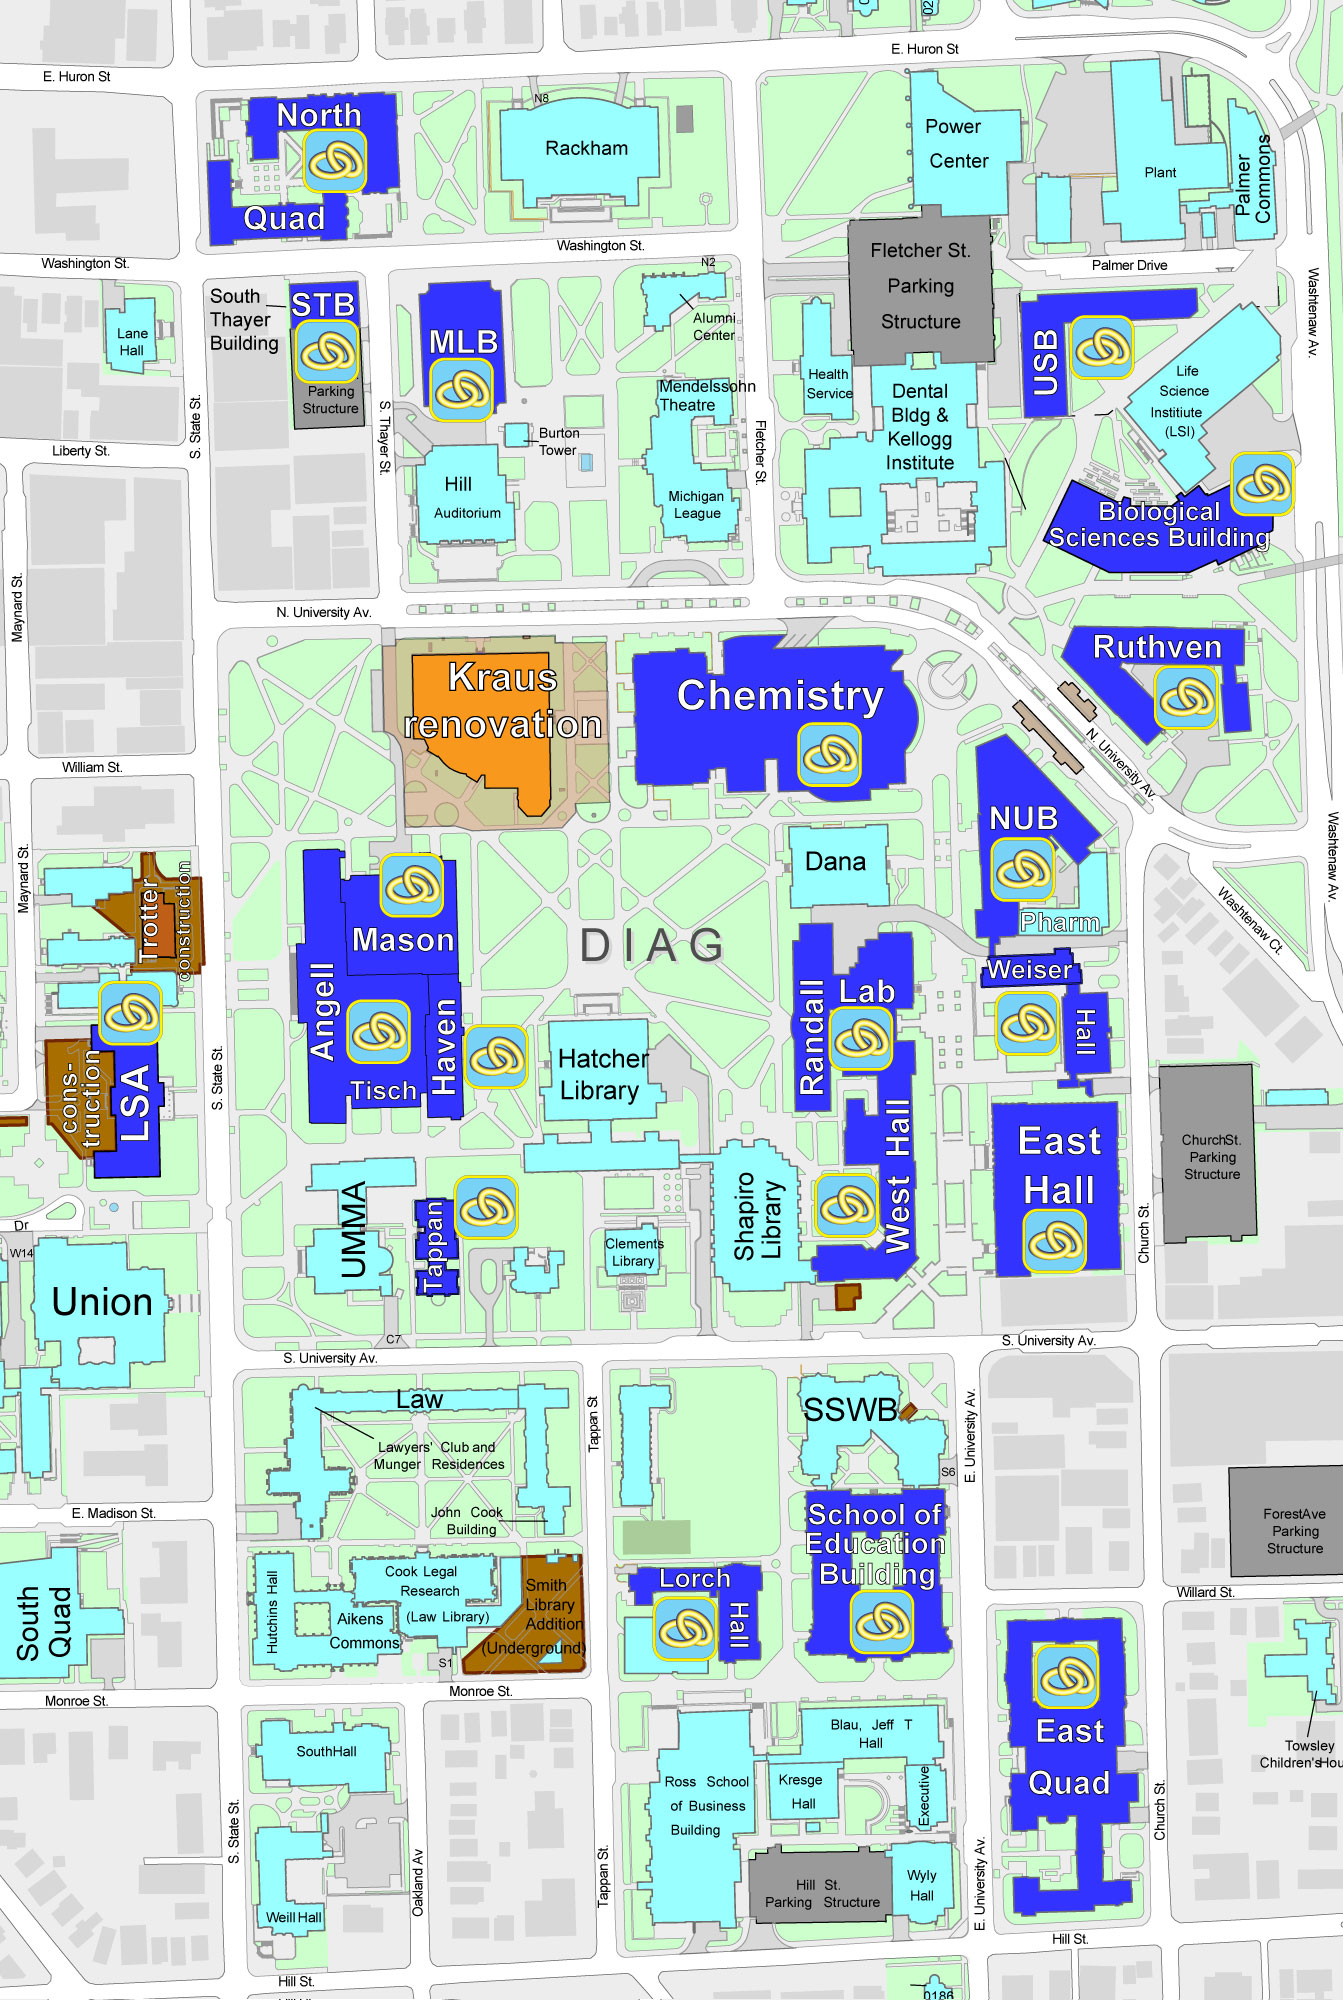
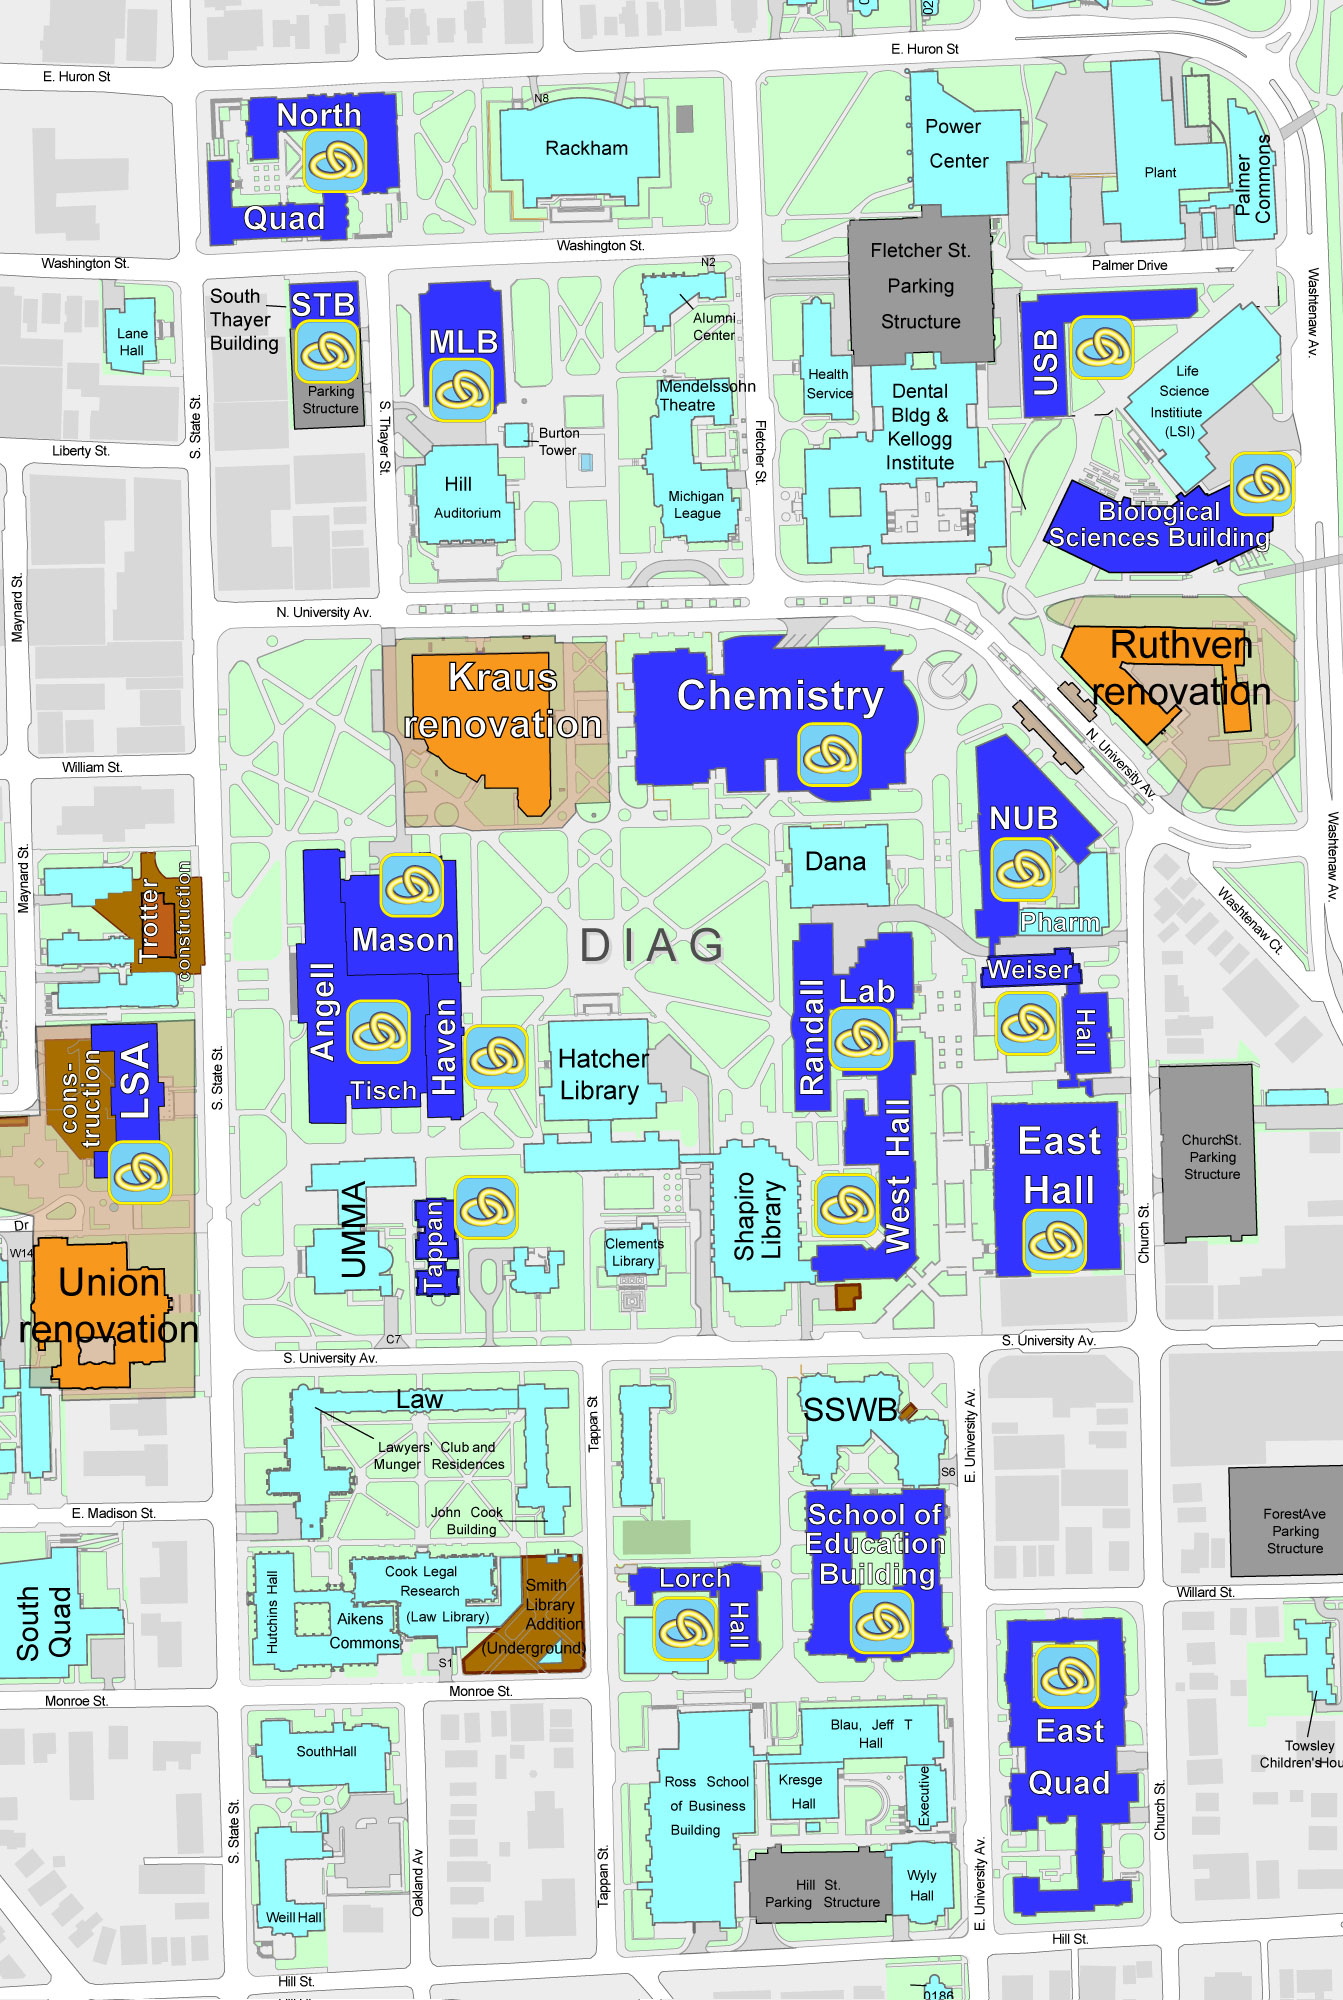
UPDATE: Maps and seating charts

Changed region(s): [[0.0, 0.434, 0.1526, 0.713], [0.7632, 0.279, 0.9769, 0.403]]

diff --git a/public/maps/index.html b/public/maps/index.html
@@ -171,7 +171,7 @@ a.rm:hover{
 
 /* padding and positions for all the links */
 
-a.agrmu{padding:5% 6.5%; top:30.5%; right:6.5%;}
+//a.agrmu{padding:5% 6.5%; top:30.5%; right:6.5%;}
 
 a.ah{padding:5%; top:49%; left:20%;}
 
@@ -187,7 +187,7 @@ a.hh{padding:5% 3%; top:48.5%; left:32%;}
 
 a.lorch{padding:6%; bottom:15%; left:45%;}
 
-a.lsa{padding:7% 5%; bottom:40.5%; left:2%;}
+a.lsa{padding:7% 5%; bottom:40%; left:2%;}
 
 a.mh{padding:4.5%; top:42%; left:25.7%;}
 
@@ -199,7 +199,7 @@ a.ns{padding:6%; top:32%; left:30%;}
 
 a.nub{padding:7.5% 5%;  top:36.5%; right:17.5%;}
 
-a.rand{padding:5.5%; top:44%; right:30%;}
+a.rand{padding:5.5%; top:45.5%; right:30%;}
 
 a.seb{padding:7.5% 7%; bottom:16%; right:26%;}
 
@@ -279,8 +279,10 @@ a.wh{padding:9% 3.5%; bottom:35%; right:31%;}
 <a class="bld rand" href="rand4.html" tabindex="65" title="to Randall Lab, fourth floor" aria-label="to Randall Lab, fourth floor">
 </a>
 
+<!-- Under Renovation ---
 <a class="bld agrmu" href="agrmu1.html" tabindex="70" title="to Ruthven, ground floor" aria-label="to Rooth ven Museum, ground floor">
-</a>
+</a
+-->
 
 <a class="bld seb" href="seb1.html" tabindex="75" title="to the School of Education, ground floor" aria-label="to the School of Education, ground floor">
 </a>
